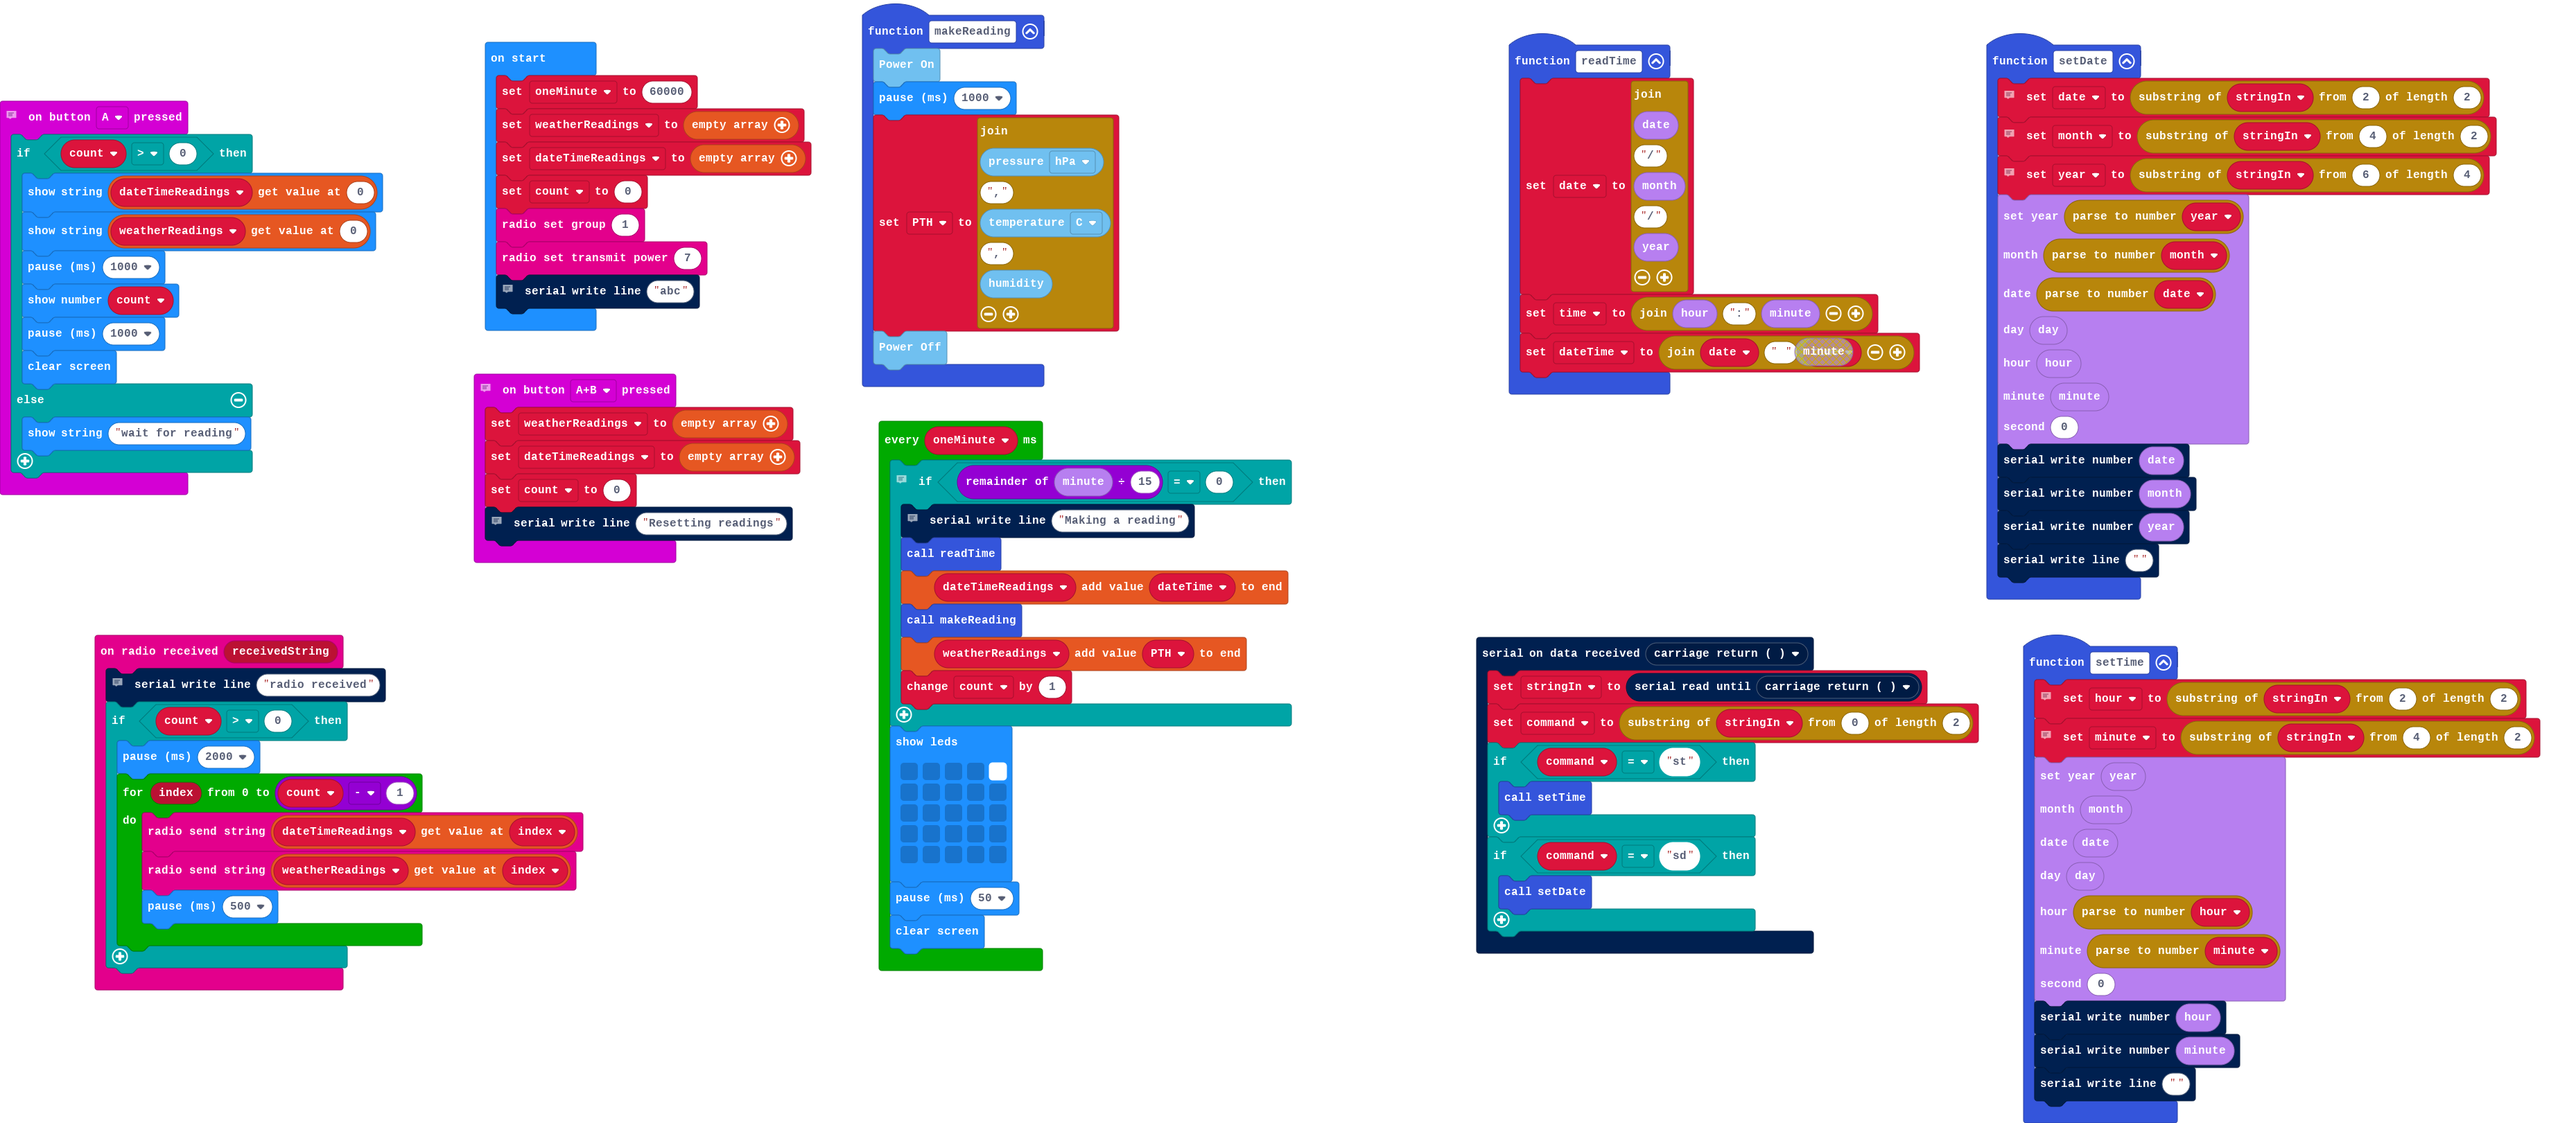
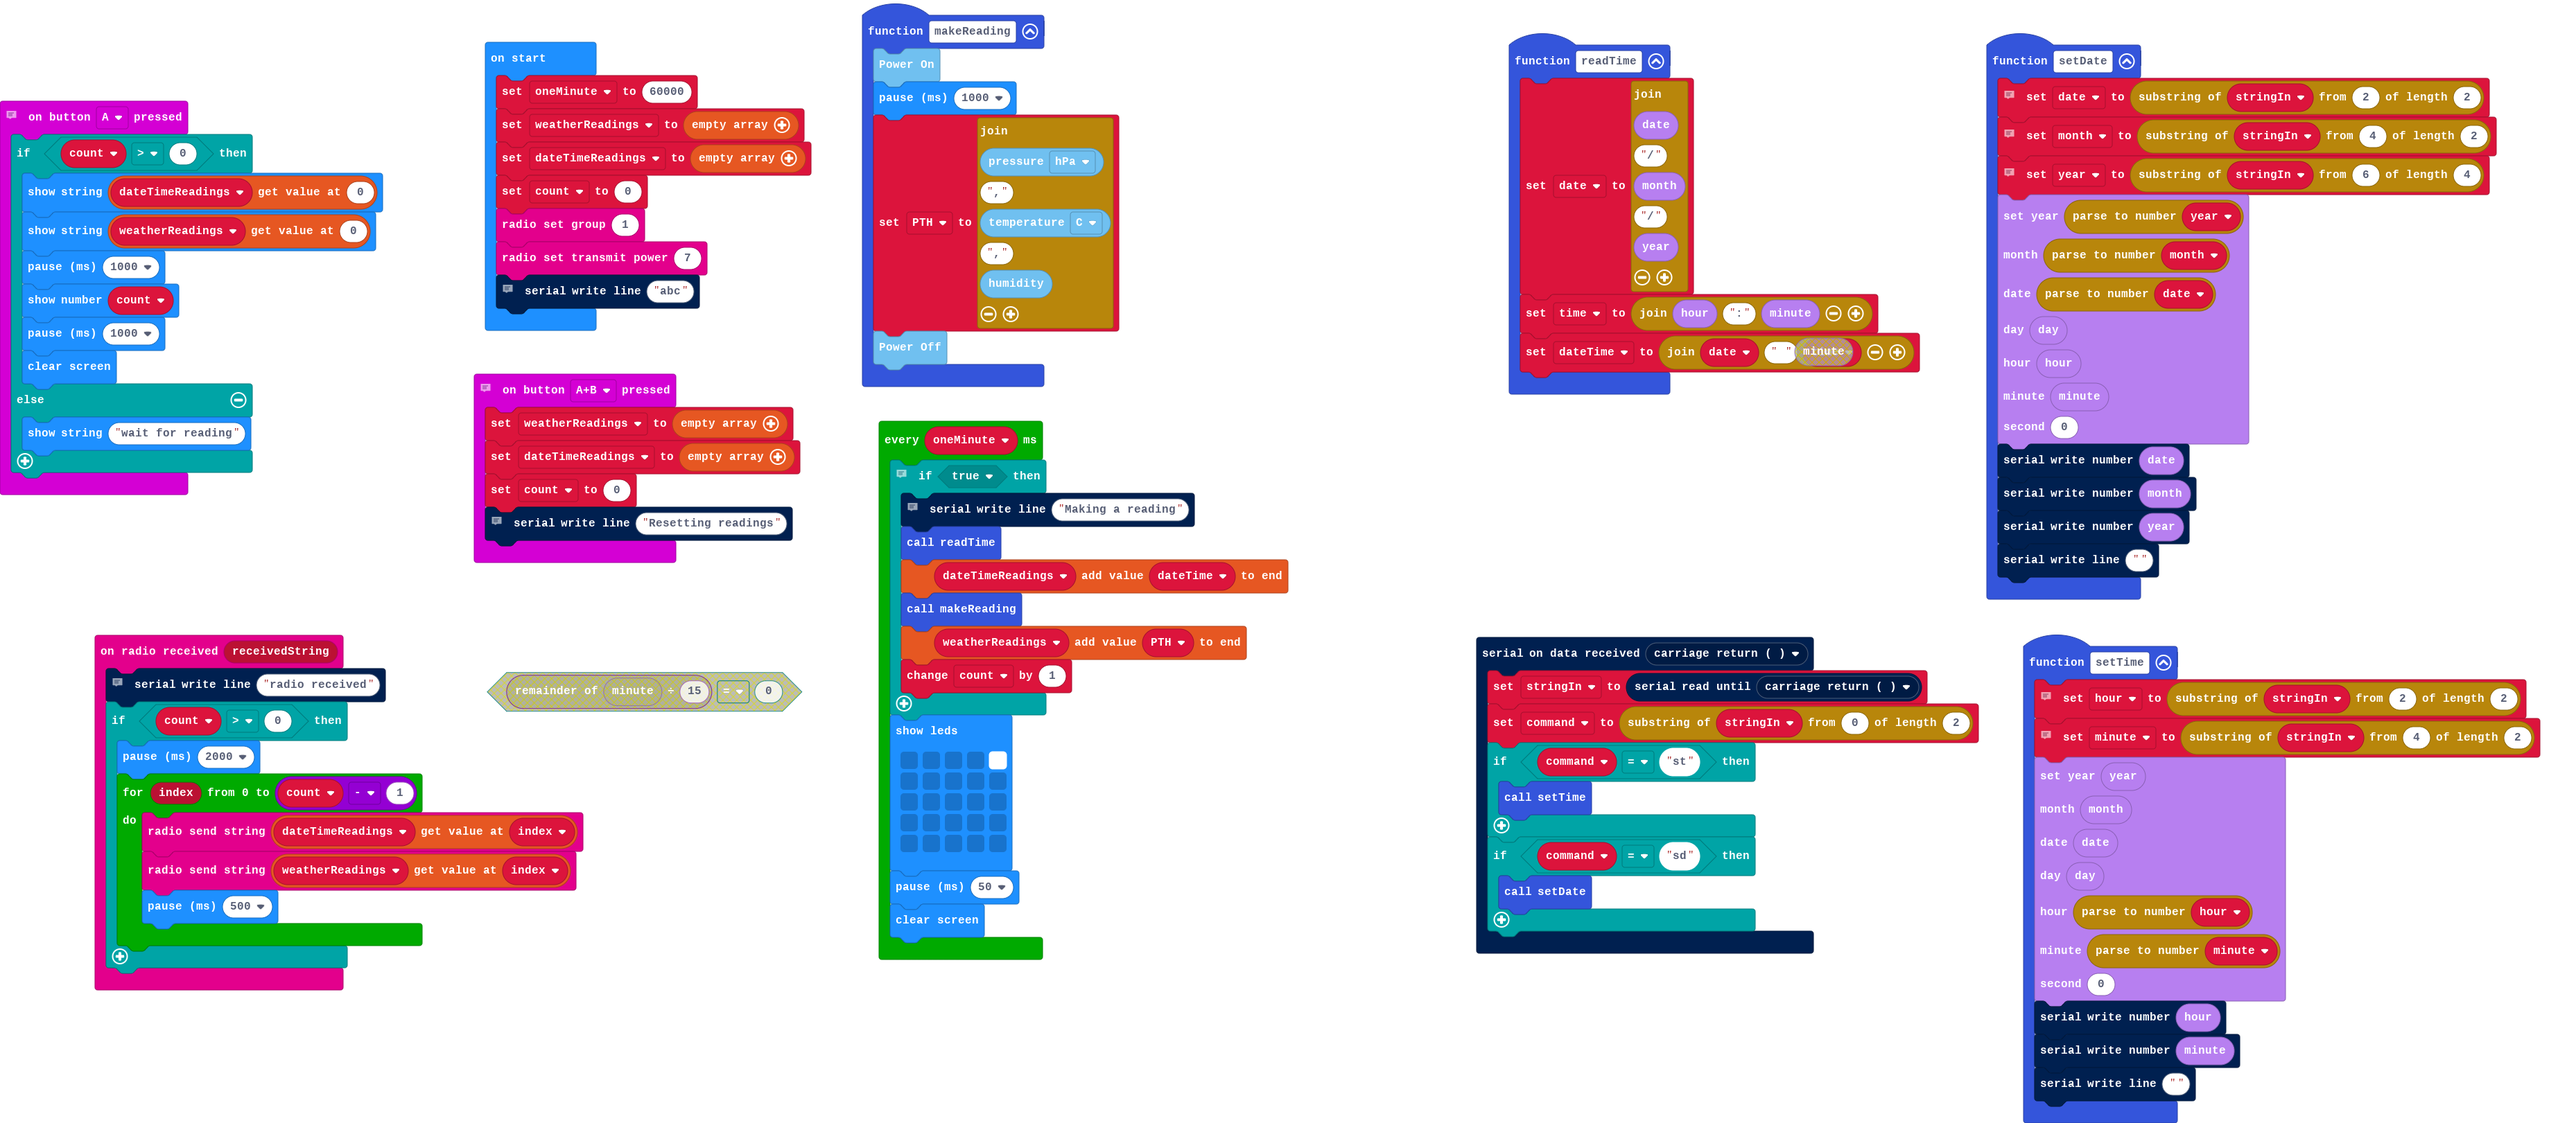
1 minute reading interval

Changed region(s): [[0.3434, 0.401, 0.4995, 0.8637], [0.1873, 0.5861, 0.3122, 0.6477]]

diff --git a/main.ts b/main.ts
@@ -114,7 +114,7 @@ radio.setTransmitPower(7)
 serial.writeLine("abc")
 loops.everyInterval(oneMinute, function () {
     // Take readings once per hour
-    if (DS3231.minute() % 15 == 0) {
+    if (true) {
         // Debug - make a reading
         serial.writeLine("Making a reading")
         readTime()
